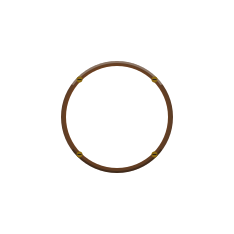
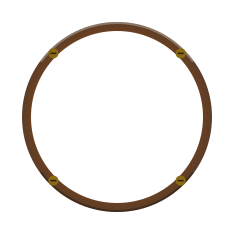
Fix ammeter dial sizing to properly fill component area
Increased dial, bezel, and needle sizes in the asset generator:
- dialRadius: 50 → 85
- scaleRadius: 38 → 65
- bezelRadius: 56 → 95
- needleLength: 42 → 70

Also updated ammeter-part.js:
- Adjusted needle pivot origin for larger dial
- Moved scale label and current reading text positions
- Increased font sizes for better readability

The gauge now properly fills the component area instead of appearing
as a tiny dial inside a large sprocket.

Changed region(s): [[0.0897, 0.0897, 0.9274, 0.9274], [0.2393, 0.2393, 0.7479, 0.7479]]

diff --git a/scripts/generate-ammeter-assets.js b/scripts/generate-ammeter-assets.js
@@ -113,7 +113,7 @@ function generateDial() {
 
     ctx.clearRect(0, 0, SIZE, SIZE);
 
-    const dialRadius = 50;
+    const dialRadius = 85; // Increased to fill the component area properly
 
     ctx.save();
     ctx.translate(CENTER, CENTER);
@@ -130,7 +130,7 @@ function generateDial() {
     ctx.fill();
 
     // Draw scale arc (semi-circle at top)
-    const scaleRadius = 38;
+    const scaleRadius = 65; // Increased proportionally with dial
     const startAngle = -Math.PI * 0.75; // -135 degrees
     const endAngle = -Math.PI * 0.25;   // -45 degrees
 
@@ -141,7 +141,7 @@ function generateDial() {
     const majorTicks = 5; // -max, -half, 0, +half, +max
     for (let i = 0; i < majorTicks; i++) {
         const tickAngle = startAngle + (i / (majorTicks - 1)) * (endAngle - startAngle);
-        const innerR = scaleRadius - 8;
+        const innerR = scaleRadius - 12;
         const outerR = scaleRadius;
 
         ctx.beginPath();
@@ -156,7 +156,7 @@ function generateDial() {
     for (let i = 0; i < minorTicks; i++) {
         if (i % 5 === 0) continue; // Skip major tick positions
         const tickAngle = startAngle + (i / (minorTicks - 1)) * (endAngle - startAngle);
-        const innerR = scaleRadius - 4;
+        const innerR = scaleRadius - 6;
         const outerR = scaleRadius;
 
         ctx.beginPath();
@@ -167,12 +167,12 @@ function generateDial() {
 
     // Scale labels
     ctx.fillStyle = COLORS.darkBrown;
-    ctx.font = 'bold 9px serif';
+    ctx.font = 'bold 14px serif';
     ctx.textAlign = 'center';
     ctx.textBaseline = 'middle';
 
     const labels = ['-', '', '0', '', '+'];
-    const labelRadius = scaleRadius - 16;
+    const labelRadius = scaleRadius - 22;
     for (let i = 0; i < labels.length; i++) {
         const labelAngle = startAngle + (i / (labels.length - 1)) * (endAngle - startAngle);
         const x = Math.cos(labelAngle) * labelRadius;
@@ -181,16 +181,16 @@ function generateDial() {
     }
 
     // "mA" label at bottom of dial
-    ctx.font = 'bold 10px serif';
-    ctx.fillText('mA', 0, 8);
+    ctx.font = 'bold 14px serif';
+    ctx.fillText('mA', 0, 15);
 
     // Decorative center ring (where needle pivots)
     ctx.beginPath();
-    ctx.arc(0, 20, 6, 0, Math.PI * 2);
+    ctx.arc(0, 35, 10, 0, Math.PI * 2);
     ctx.fillStyle = COLORS.brassDark;
     ctx.fill();
     ctx.beginPath();
-    ctx.arc(0, 20, 4, 0, Math.PI * 2);
+    ctx.arc(0, 35, 7, 0, Math.PI * 2);
     ctx.fillStyle = COLORS.brass;
     ctx.fill();
 
@@ -208,8 +208,8 @@ function generateBezel() {
 
     ctx.clearRect(0, 0, SIZE, SIZE);
 
-    const outerRadius = 56;
-    const innerRadius = 51;
+    const outerRadius = 95;
+    const innerRadius = 86;
 
     ctx.save();
     ctx.translate(CENTER, CENTER);
@@ -251,21 +251,21 @@ function generateBezel() {
     ];
 
     for (const screw of screwPositions) {
-        const x = Math.cos(screw.angle) * (outerRadius - 3);
-        const y = Math.sin(screw.angle) * (outerRadius - 3);
+        const x = Math.cos(screw.angle) * (outerRadius - 5);
+        const y = Math.sin(screw.angle) * (outerRadius - 5);
 
         // Screw head
         ctx.beginPath();
-        ctx.arc(x, y, 3, 0, Math.PI * 2);
+        ctx.arc(x, y, 5, 0, Math.PI * 2);
         ctx.fillStyle = COLORS.brassDark;
         ctx.fill();
 
         // Screw slot
         ctx.beginPath();
-        ctx.moveTo(x - 2, y);
-        ctx.lineTo(x + 2, y);
+        ctx.moveTo(x - 3, y);
+        ctx.lineTo(x + 3, y);
         ctx.strokeStyle = COLORS.darkBrown;
-        ctx.lineWidth = 1;
+        ctx.lineWidth = 1.5;
         ctx.stroke();
     }
 
@@ -288,18 +288,18 @@ function generateNeedle() {
 
     // Needle pointing up (will be rotated in-game)
     // The origin is set to (0.5, 0.85) in code, so we draw relative to that
-    const needleLength = 42;
-    const pivotY = 20; // Match dial center ring position
+    const needleLength = 70; // Increased for larger dial
+    const pivotY = 35; // Match dial center ring position
 
     // Draw needle shadow first
     ctx.save();
     ctx.translate(2, 2);
     ctx.beginPath();
     ctx.moveTo(0, pivotY - needleLength); // Tip
-    ctx.lineTo(-3, pivotY - 5);
-    ctx.lineTo(-2, pivotY + 5);
-    ctx.lineTo(2, pivotY + 5);
-    ctx.lineTo(3, pivotY - 5);
+    ctx.lineTo(-4, pivotY - 8);
+    ctx.lineTo(-3, pivotY + 8);
+    ctx.lineTo(3, pivotY + 8);
+    ctx.lineTo(4, pivotY - 8);
     ctx.closePath();
     ctx.fillStyle = COLORS.shadow;
     ctx.fill();
@@ -308,13 +308,13 @@ function generateNeedle() {
     // Needle body
     ctx.beginPath();
     ctx.moveTo(0, pivotY - needleLength); // Tip (pointing up)
-    ctx.lineTo(-2.5, pivotY - 5);
-    ctx.lineTo(-1.5, pivotY + 4);
-    ctx.lineTo(1.5, pivotY + 4);
-    ctx.lineTo(2.5, pivotY - 5);
+    ctx.lineTo(-3.5, pivotY - 8);
+    ctx.lineTo(-2.5, pivotY + 6);
+    ctx.lineTo(2.5, pivotY + 6);
+    ctx.lineTo(3.5, pivotY - 8);
     ctx.closePath();
 
-    const needleGradient = ctx.createLinearGradient(-3, 0, 3, 0);
+    const needleGradient = ctx.createLinearGradient(-4, 0, 4, 0);
     needleGradient.addColorStop(0, '#4a0000');
     needleGradient.addColorStop(0.5, COLORS.needleRed);
     needleGradient.addColorStop(1, '#4a0000');
@@ -323,11 +323,11 @@ function generateNeedle() {
 
     // Needle center cap
     ctx.beginPath();
-    ctx.arc(0, pivotY, 4, 0, Math.PI * 2);
+    ctx.arc(0, pivotY, 7, 0, Math.PI * 2);
     ctx.fillStyle = COLORS.darkBrown;
     ctx.fill();
     ctx.beginPath();
-    ctx.arc(0, pivotY, 2.5, 0, Math.PI * 2);
+    ctx.arc(0, pivotY, 4.5, 0, Math.PI * 2);
     ctx.fillStyle = COLORS.brass;
     ctx.fill();
 

diff --git a/public/parts/ammeter-part.js b/public/parts/ammeter-part.js
@@ -43,24 +43,24 @@ export class AmmeterPart extends PartBase {
         this.needleImage = scene.add.image(x, y, 'ammeter-needle');
         this.needleImage.setScale(0.5);
         this.needleImage.setDepth(13);
-        this.needleImage.setOrigin(0.5, 0.85); // Pivot near bottom center
+        this.needleImage.setOrigin(0.5, 0.65); // Pivot at center ring position (35/117 from center)
 
         // Create scale label text
-        this.scaleText = scene.add.text(x, y + 25, AmmeterPart.scaleLabels[this.scaleIndex], {
-            font: '12px Roboto',
+        this.scaleText = scene.add.text(x, y + 40, AmmeterPart.scaleLabels[this.scaleIndex], {
+            font: '14px Roboto',
             color: '#4a3728',
             fontStyle: 'bold'
         });
         this.scaleText.setOrigin(0.5, 0.5);
-        this.scaleText.setDepth(13);
+        this.scaleText.setDepth(15);
 
         // Create current reading text
-        this.currentText = scene.add.text(x, y + 40, '0.0 mA', {
-            font: '10px Roboto',
+        this.currentText = scene.add.text(x, y + 55, '0.0 mA', {
+            font: '12px Roboto',
             color: '#2a1f18',
         });
         this.currentText.setOrigin(0.5, 0.5);
-        this.currentText.setDepth(13);
+        this.currentText.setDepth(15);
 
         // Configure 3-level sprockets (all share same body)
         for (let i = 0; i < 3; i++) {
@@ -206,8 +206,8 @@ export class AmmeterPart extends PartBase {
         if (this.dialImage) this.dialImage.setPosition(x, y);
         if (this.bezelImage) this.bezelImage.setPosition(x, y);
         if (this.needleImage) this.needleImage.setPosition(x, y);
-        if (this.scaleText) this.scaleText.setPosition(x, y + 25);
-        if (this.currentText) this.currentText.setPosition(x, y + 40);
+        if (this.scaleText) this.scaleText.setPosition(x, y + 40);
+        if (this.currentText) this.currentText.setPosition(x, y + 55);
     }
 
     destroy() {
